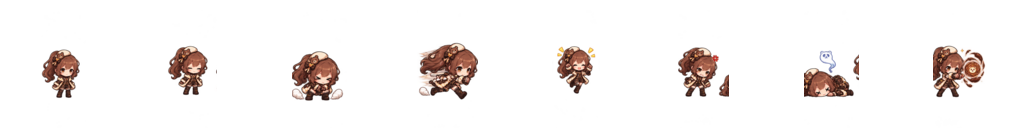
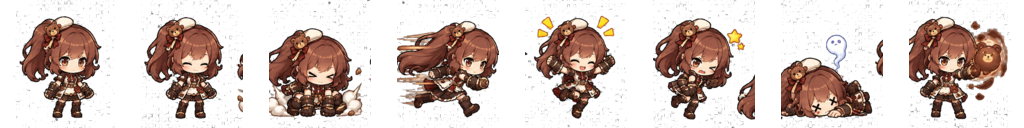
Standardize fighter runs at 12 frames

diff --git a/game.js b/game.js
@@ -27,9 +27,13 @@ const BALANCE = {
 };
 
 /* ---- เวอร์ชัน + บันทึกอัปเดต (build-www ดึงไปทำ version.json ให้หน้า download) ---- */
-const GAME_VERSION = '2.8.2';
+const GAME_VERSION = '2.8.3';
 const RELEASES_URL = 'https://github.com/hardza1230/Survival-like-Mobile-Game/releases/download/latest/mochi-mayhem-debug.apk';
 const CHANGELOG = [
+  { v:'2.8.3', date:'2026-09-10', title:'12-Frame Fighter Standard', items:[
+    'ปรับ run cycle ของ Momo เป็น 12 เฟรมที่กระชับและอ่านท่าทางชัดขึ้นสำหรับเกม survival-like',
+    'สร้าง Mint และ Chocolate ใหม่โดยยึดสัดส่วน เส้น และรูปแบบชีตของ Momo Strawberry เป็นมาตรฐานเดียวกัน',
+    'ตัวละครทั้งสามใช้ run atlas 4×3 เฟรมละ 128px ที่ 16 FPS และสลับกลับชีต action เมื่อยืน Dash เจ็บ ใช้สกิล หรือ KO' ] },
   { v:'2.8.2', date:'2026-09-10', title:'Momo 25-Frame Run Cycle', items:[
     'ขยาย run cycle ของ Momo จาก 8 เป็น 25 เฟรมจริง ไม่ใช่เพียงเร่งความเร็วการเล่นเฟรมเดิม',
     'จัด sprite atlas แบบ 5×5 เฟรมละ 128px พร้อมพื้นหลังโปร่งใสและตำแหน่งตัวละครคงที่',
@@ -475,7 +479,9 @@ const ASSET_SHEETS = {
   char_momo:  { url:'assets/char_momo_fighter_sheet.png', frame:128 },
   char_momo_run:{ url:'assets/char_momo_run_sheet.png', frame:128 },
   char_mint:  { url:'assets/char_mint_awakened_sheet.png',  frame:128 },
+  char_mint_run:{ url:'assets/char_mint_run_sheet.png', frame:128 },
   char_cocoa: { url:'assets/char_cocoa_awakened_sheet.png', frame:128 },
+  char_cocoa_run:{ url:'assets/char_cocoa_run_sheet.png', frame:128 },
   char_taro:  { url:'assets/char_taro_awakened_sheet.png', frame:128 },
   char_sesame:{ url:'assets/char_sesame_awakened_sheet.png', frame:128 },
   fx_star_guard:{ url:'assets/fx_star_guard_sheet.png', frame:128, anim:{frames:8,rate:14} },
@@ -3680,10 +3686,10 @@ class Game extends Phaser.Scene {
       || (this.player&&this.player.frame&&this.player.frame.width)
       || 60;
     // ปรับสเกลตาม "รอยเท้าจริง" ของอาร์ต (bbox เฉลี่ย กว้าง+สูง /2 วัดจากชีต) ให้ทุกตัวดูขนาดพอ ๆ กัน
-    // strawberry(momo) ตัวอ้วน/กว้าง → เล็กลง · mint/cocoa ตัวผอมสูง → ใหญ่ขึ้น (แก้ปัญหา momo ใหญ่ไป มินต์/โกโก้เล็กไป)
+    // Momo/Mint/Chocolate ใช้สัดส่วนอาร์ตมาตรฐานเดียวกันและแสดงผลขนาดเดียวกัน
     const baseKey=key.replace('_run','');
-    const FP={ char_momo:110, char_mint:63, char_cocoa:63, char_taro:107, char_sesame:117 }[baseKey];
-    const TARGET=baseKey==='char_momo'?56:66;   // Momo เล็กกว่าค่าเดิม 15% เพื่อลดการบังสนามบนมือถือ
+    const FP={ char_momo:110, char_mint:110, char_cocoa:110, char_taro:107, char_sesame:117 }[baseKey];
+    const TARGET=['char_momo','char_mint','char_cocoa'].includes(baseKey)?56:66;
     this._pBase = FP ? (TARGET/FP) : (90/src);
     this._charKey=key;
     this._hasFrames = this.textures.exists(key) && this.textures.get(key).frameTotal>1;
@@ -3695,17 +3701,19 @@ class Game extends Phaser.Scene {
   updatePose(dt){
     if(!this._hasFrames)return;
     if(this._poseHold>0){ this._poseHold-=dt; return; }
-    const momoRun=this.character==='momo'&&this.textures.exists('char_momo_run');
+    const baseCharKey='char_'+this.character;
+    const runCharKey=baseCharKey+'_run';
+    const hasRun=this.textures.exists(runCharKey);
     if(this.dashTime>0){
-      if(momoRun&&this.player.texture.key!=='char_momo')this.player.setTexture('char_momo');
+      if(hasRun&&this.player.texture.key!==baseCharKey)this.player.setTexture(baseCharKey);
       this.player.setFrame(CF.stretch); return;
     }
     const moving = this.player.body && this.player.body.velocity.length() > 24;
     if(moving){
-      if(momoRun){
-        if(this.player.texture.key!=='char_momo_run')this.player.setTexture('char_momo_run');
-        this._momoRunT=(this._momoRunT||0)+dt;
-        this.player.setFrame(Math.floor(this._momoRunT*25)%25);
+      if(hasRun){
+        if(this.player.texture.key!==runCharKey)this.player.setTexture(runCharKey);
+        this._charRunT=(this._charRunT||0)+dt;
+        this.player.setFrame(Math.floor(this._charRunT*16)%12);
       }else{
         const stepIdx = Math.floor((this._wob / (Math.PI * 0.5)) % 4);
         const frames = [CF.idle, CF.squash, CF.stretch, CF.blink];
@@ -3713,14 +3721,14 @@ class Game extends Phaser.Scene {
       }
       return;
     }
-    if(momoRun&&this.player.texture.key!=='char_momo')this.player.setTexture('char_momo');
-    this._momoRunT=0;
+    if(hasRun&&this.player.texture.key!==baseCharKey)this.player.setTexture(baseCharKey);
+    this._charRunT=0;
     this._blinkT-=dt;
     if(this._blinkT<=0){ this.player.setFrame(CF.blink);
       if(this._blinkT<-0.13){ this.player.setFrame(CF.idle); this._blinkT=Phaser.Math.FloatBetween(2.2,4.5); } }
     else this.player.setFrame(CF.idle);
   }
-  poseFlash(frame,ms){ if(!this._hasFrames)return; if(this.character==='momo'&&this.player.texture.key!=='char_momo')this.player.setTexture('char_momo'); this.player.setFrame(frame); this._poseHold=(ms||160)/1000; }
+  poseFlash(frame,ms){ if(!this._hasFrames)return; const baseCharKey='char_'+this.character; if(this.textures.exists(baseCharKey)&&this.player.texture.key!==baseCharKey)this.player.setTexture(baseCharKey); this.player.setFrame(frame); this._poseHold=(ms||160)/1000; }
   // อนิเมชันตัวละคร: สปริงเจลลี่ + หายใจ + หันหน้าตามทิศ + ควันฝุ่น + เงา Dash
   animatePlayer(dt){
     const p=this.player; if(!p||!p.body)return;
@@ -3761,7 +3769,7 @@ class Game extends Phaser.Scene {
 
   /* ---------- DEATH ---------- */
   die(){ if(this.state==='dead')return; this.state='dead'; Sfx.bgmIntense(false); Sfx.dead(); Save.addSugar(this.sugarStage); this.gainCharExp(this.kills+this.stageIndex*15); this.sugarStage=0; this.physics.pause(); this.player.setVelocity(0,0);
-    if(this._hasFrames){ if(this.character==='momo'&&this.player.texture.key!=='char_momo')this.player.setTexture('char_momo'); this.player.setFrame(CF.ko); this.player.setScale(this._pBase||1); this.player.setRotation(0); }
+    if(this._hasFrames){ const baseCharKey='char_'+this.character; if(this.textures.exists(baseCharKey)&&this.player.texture.key!==baseCharKey)this.player.setTexture(baseCharKey); this.player.setFrame(CF.ko); this.player.setScale(this._pBase||1); this.player.setRotation(0); }
     this.buildOver(); }
   buildOver(){ const w=this.W,h=this.H; this.over.removeAll(true);
     const bg=this.add.rectangle(0,0,w,h,0x1a1420,0.88).setOrigin(0,0);

diff --git a/CLAUDE.md b/CLAUDE.md
@@ -55,7 +55,8 @@
   · ต้องเปิด Pages ครั้งแรก: Settings→Pages→Source: GitHub Actions
   · **หมายเหตุ:** เพราะ server.url ชี้ Pages → APK ตัวใหม่ต้อง build หลังตั้ง Pages (ตัว build แรกสุดยังเป็นออฟไลน์)
 
-## 4. สถานะปัจจุบัน (อัปเดตล่าสุด: v2.8.2 Momo 25-Frame Run Cycle)
+## 4. สถานะปัจจุบัน (อัปเดตล่าสุด: v2.8.3 12-Frame Fighter Standard)
+- **v2.8.3:** ใช้ Momo Strawberry เป็นต้นแบบสัดส่วนและงานเส้นของ Mint/Chocolate · ตัวละครทั้งสามมี run atlas 4×3 รวม 12 เฟรม เฟรมละ 128px เล่นที่ 16 FPS · ขนาดแสดงผลเท่ากันและสลับกลับ action sheet สำหรับท่ายืน/Dash/เจ็บ/ใช้สกิล/KO
 - **v2.8.2:** เปลี่ยน `char_momo_run_sheet.png` เป็น atlas 5×5 ขนาด 640×640 (25 เฟรมจริง เฟรมละ 128px) · เล่นเฉพาะตอนเคลื่อนที่ที่ 25 FPS · ท่า action เดิมยังสลับกลับไปใช้ `char_momo_fighter_sheet.png`
 - **v2.8.1:** เลเวลอัพเลือก 1 จาก 4 โดยการ์ด responsive ยังอ่านข้อความครบ · ลดภาพ Momo ลง 15% (คง hitbox เดิม) · เพิ่ม `char_momo_run_sheet.png` เป็น run cycle 8 เฟรมที่ 12 fps และสลับกลับชีต action เดิมเมื่อยืน/Dash/เจ็บ/KO
 - **v2.8.0:** รื้อการ์ดเลือกสกิลจากกรอบทองแนวตั้งเป็นการ์ดแบนคอนทราสต์สูง ไอคอนใหญ่ซ้าย/ข้อความขวาบนมือถือ · เริ่มด่านเลือก 1 จาก 3 · ใช้ข้อความ runtime ไม่ bake ลงภาพเพื่อกันล้นเมื่อเปลี่ยนเลเวล/ภาษา · ลด active skill จาก 22 เหลือ 15 โดยถอด aura/fork/wave/memory/thread/triseal/echoStep และ combo ที่เกี่ยวข้อง
